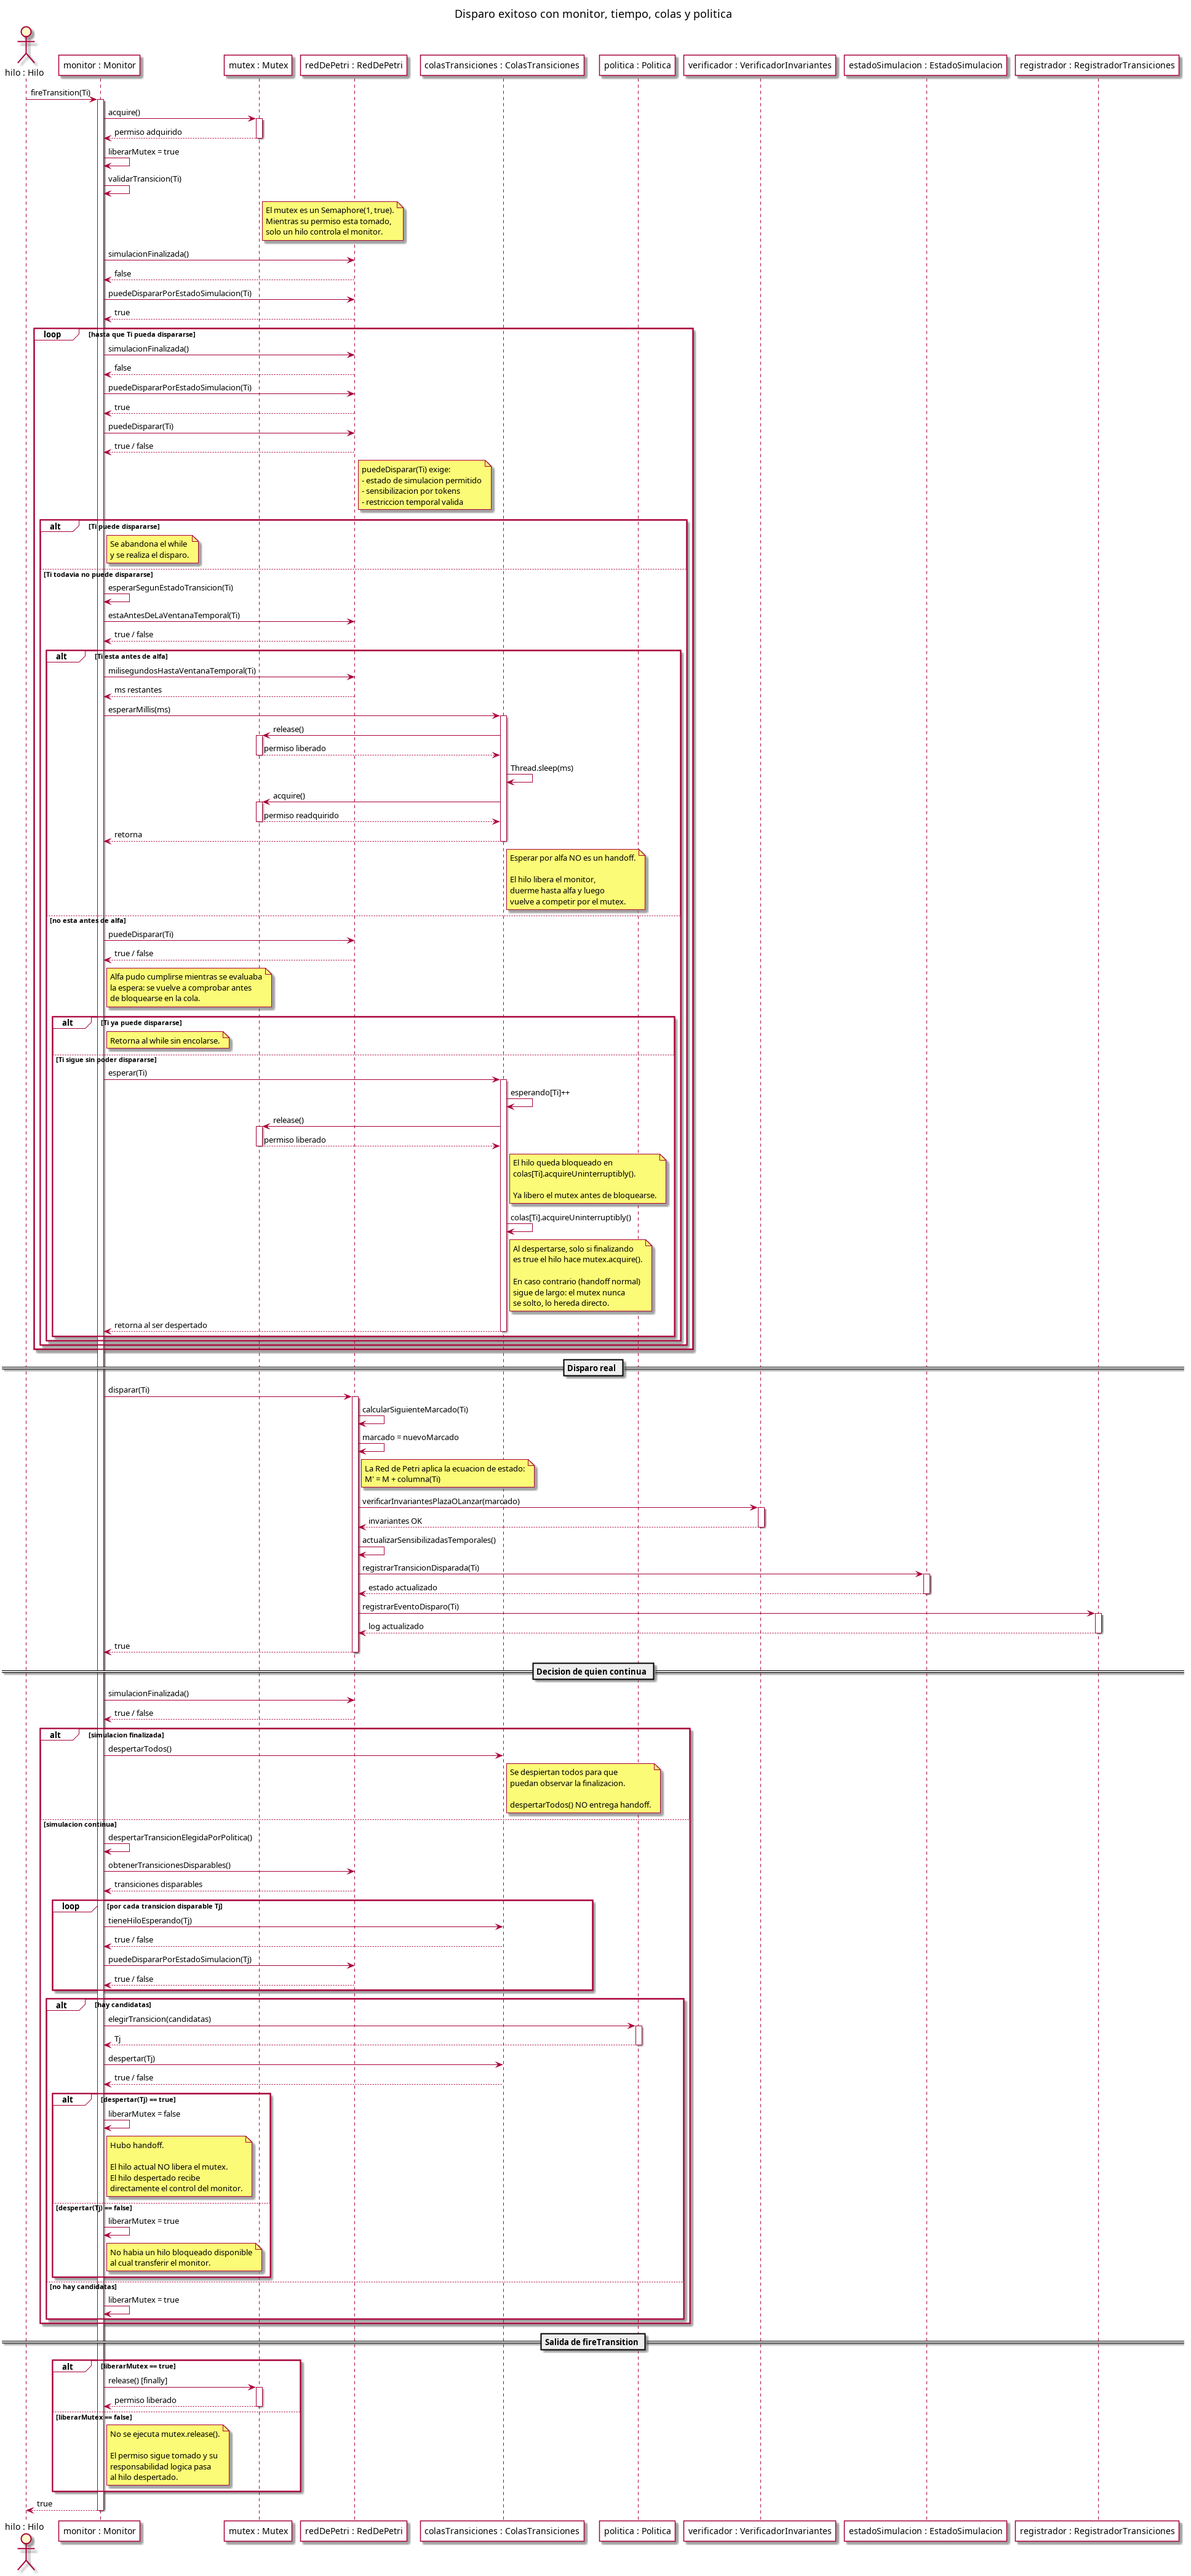
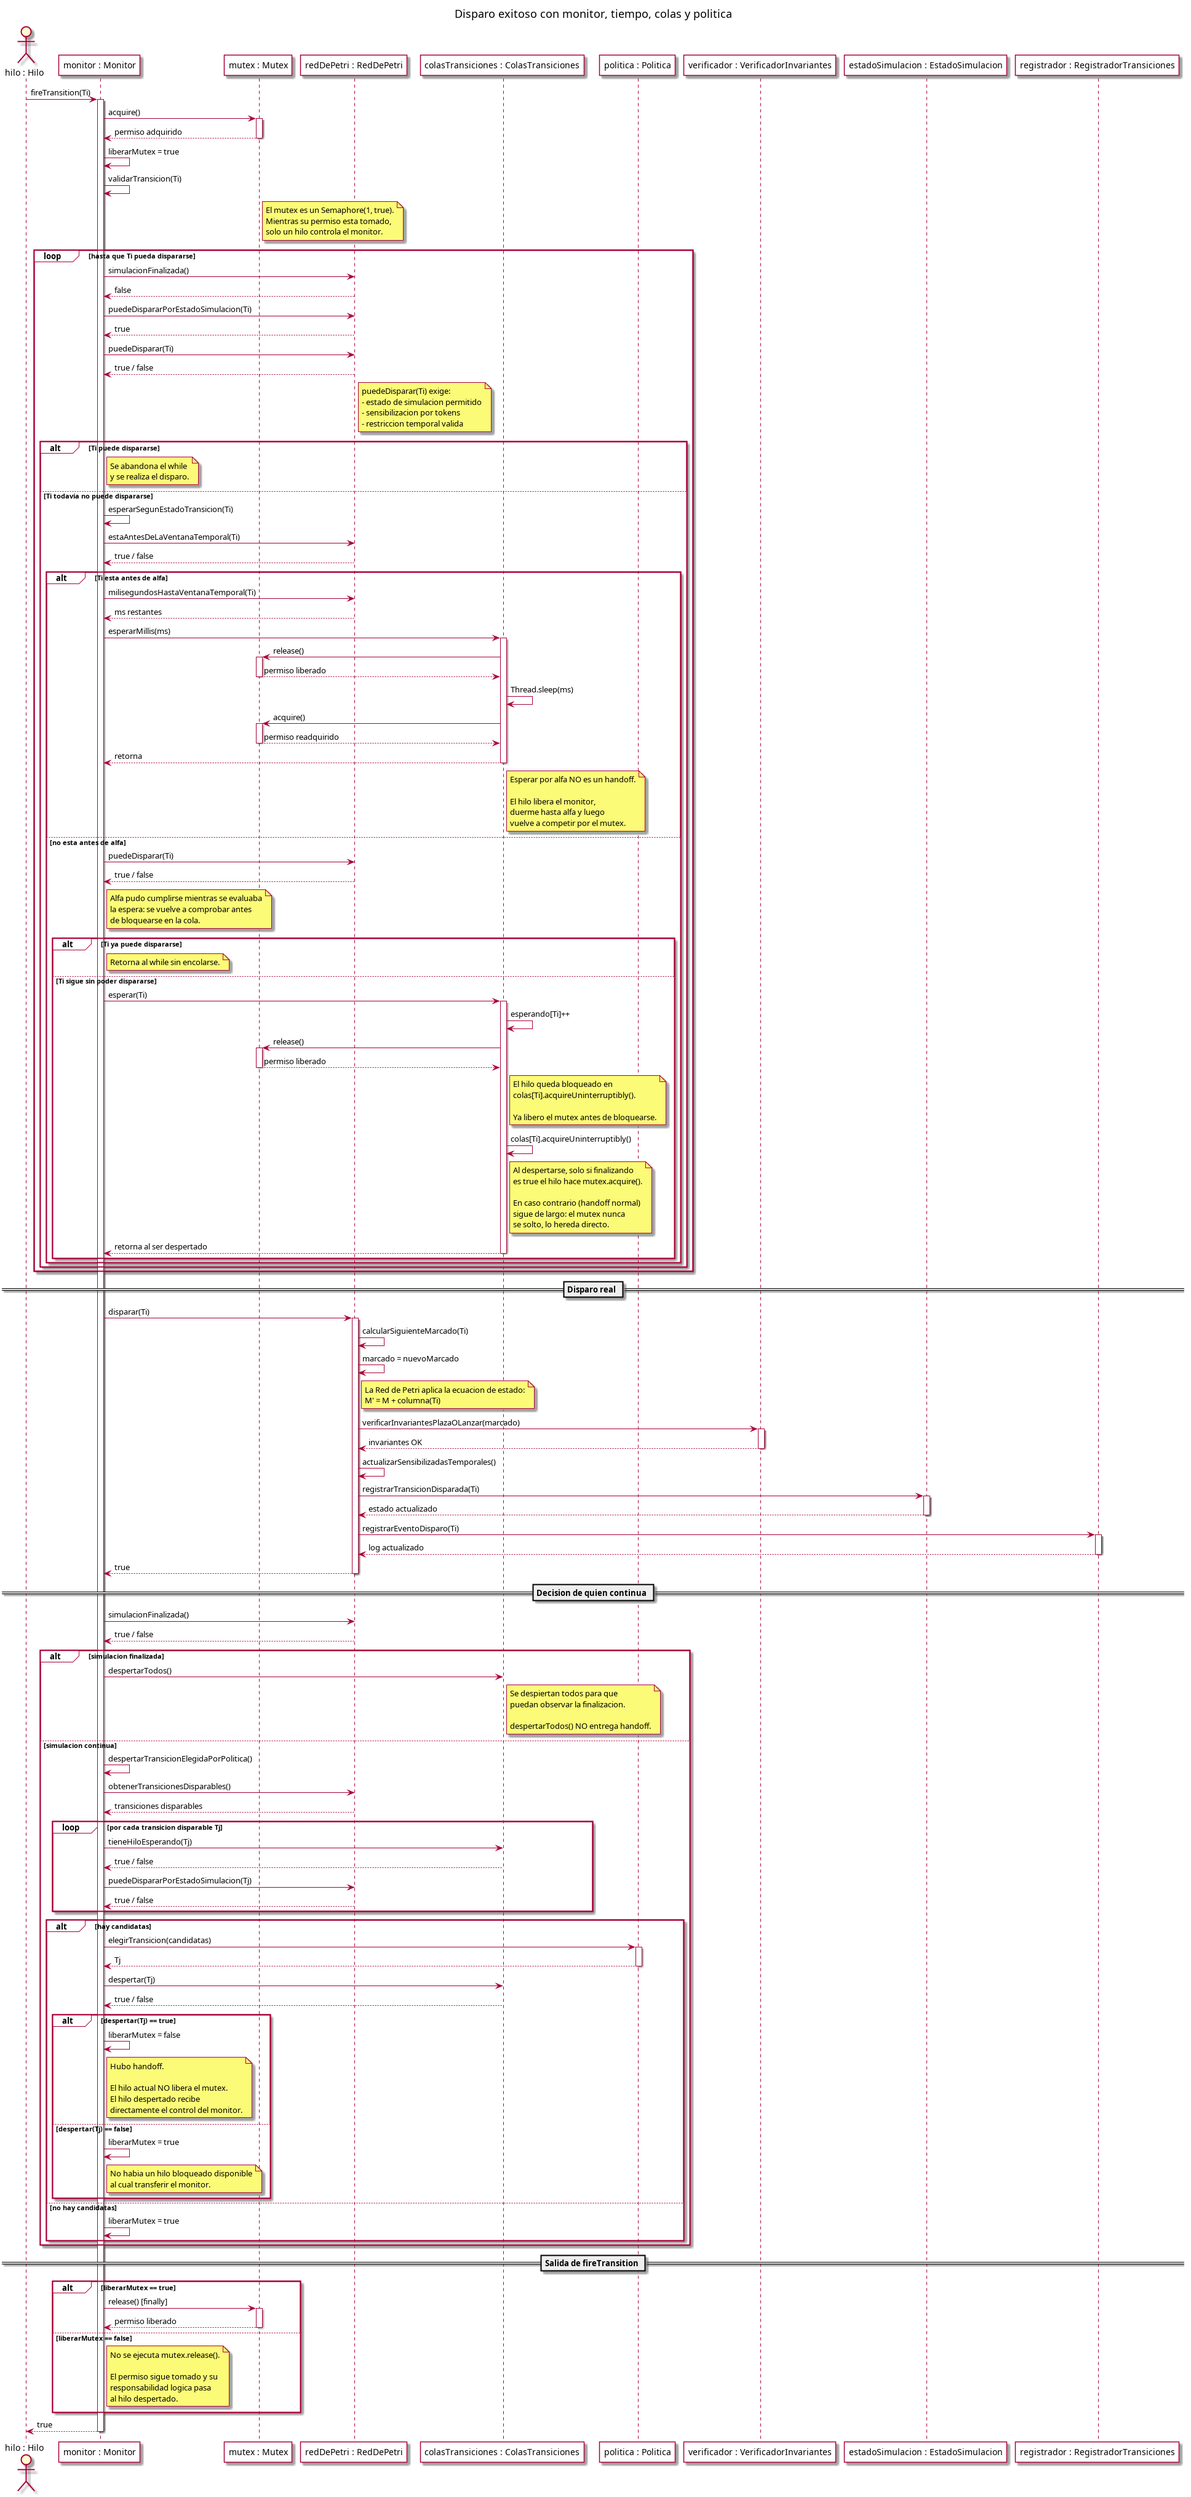
Simplificar monitor y actualizar diagramas de secuencia

diff --git a/src/main/java/ar/edu/unc/concurrente/monitor/Monitor.java b/src/main/java/ar/edu/unc/concurrente/monitor/Monitor.java
@@ -33,21 +33,18 @@ public class Monitor implements MonitorInterface {
         try {
             validarTransicion(transicion);
 
-            if (redDePetri.simulacionFinalizada() || !redDePetri.puedeDispararPorEstadoSimulacion(transicion)) {
-                return false;
-            }
-
-            log("\n" + Thread.currentThread().getName() + " intenta T" + transicion);
+            log("\n" + Thread.currentThread().getName()
+                    + " intenta T" + transicion);
 
             while (true) {
                 if (redDePetri.simulacionFinalizada()) {
-                    // Solo al terminar la simulacion se despierta a todos.
+                    // Se completaron los 200 invariantes: finalizar los trabajadores.
                     colasTransiciones.despertarTodos();
                     return false;
                 }
 
                 if (!redDePetri.puedeDispararPorEstadoSimulacion(transicion)) {
-                    // Ya no se aceptan nuevos ingresos: este hilo se retira
+                    // No iniciar nuevos recorridos; los pendientes deben completarse.
                     return false;
                 }
 
@@ -55,6 +52,7 @@ public class Monitor implements MonitorInterface {
                     break;
                 }
 
+                // Esperar por sensibilización o por alfa.
                 esperarSegunEstadoTransicion(transicion);
 
                 log(Thread.currentThread().getName()
